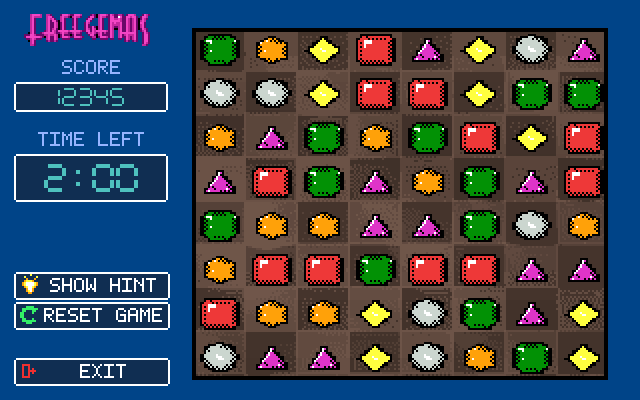
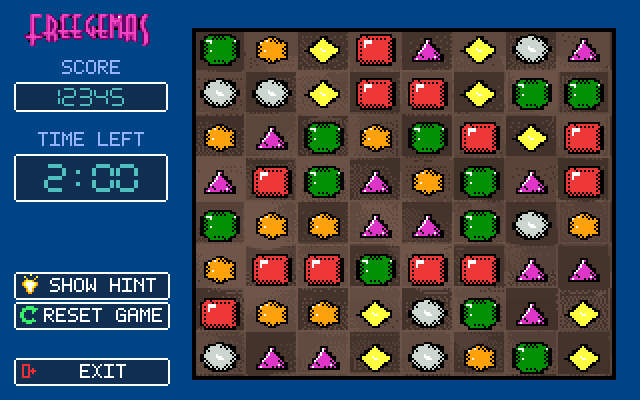
iigs: fix 8-column board symmetry and add documentation

Changed region(s): [[0.9375, 0.06, 0.9688, 0.96]]

diff --git a/iigs/tools/committed_art.py b/iigs/tools/committed_art.py
@@ -382,18 +382,19 @@ def build_scene(ctx, time_panel):
     # Board: retain the source wood and cell shading. The cached scene is also
     # the exact restoration image used after gem moves, so textured cells need
     # no separate runtime redraw path.
-    errors = [[0.0, 0.0, 0.0] for _ in range(BOARD_W + 2)]
-    next_errors = [[0.0, 0.0, 0.0] for _ in range(BOARD_W + 2)]
+    BOARD_EXT_W = 212
+    errors = [[0.0, 0.0, 0.0] for _ in range(BOARD_EXT_W + 2)]
+    next_errors = [[0.0, 0.0, 0.0] for _ in range(BOARD_EXT_W + 2)]
     previous_bank = -1
     for y in range(BOARD_Y, BOARD_Y + BOARD_H):
         if scb[y] != previous_bank:
-            errors = [[0.0, 0.0, 0.0] for _ in range(BOARD_W + 2)]
-            next_errors = [[0.0, 0.0, 0.0] for _ in range(BOARD_W + 2)]
+            errors = [[0.0, 0.0, 0.0] for _ in range(BOARD_EXT_W + 2)]
+            next_errors = [[0.0, 0.0, 0.0] for _ in range(BOARD_EXT_W + 2)]
             previous_bank = scb[y]
         gy = y - BOARD_Y
-        for x in range(BOARD_X, BOARD_X + BOARD_W):
+        for x in range(BOARD_X, BOARD_X + BOARD_EXT_W):
             gx = x - BOARD_X
-            if gx < 2 or gx >= BOARD_W - 2 or gy < 2 or gy >= BOARD_H - 2:
+            if gx < 2 or gx >= BOARD_EXT_W - 2 or gy < 2 or gy >= BOARD_H - 2:
                 grid[y][x] = 0
             else:
                 if ZONE_KIND[y] == "logo":
@@ -415,7 +416,7 @@ def build_scene(ctx, time_panel):
                         next_errors[pos - 1][k] += error[k] * 3 / 16
                         next_errors[pos][k] += error[k] * 5 / 16
                         next_errors[pos + 1][k] += error[k] / 16
-        errors, next_errors = next_errors, [[0.0, 0.0, 0.0] for _ in range(BOARD_W + 2)]
+        errors, next_errors = next_errors, [[0.0, 0.0, 0.0] for _ in range(BOARD_EXT_W + 2)]
 
     # Left HUD column.
     draw_text_grid(grid, "Score", PANEL_X + (PANEL_W - text_w("Score")) // 2, 30, LABEL_SLOT)

diff --git a/iigs/tools/hud_art.py b/iigs/tools/hud_art.py
@@ -51,8 +51,8 @@ def polish_sidebar(packed, palettes, glyphs, time_panel):
     grid=[[(packed[y*160+x//2]>>(4 if x%2==0 else 0))&15 for x in range(320)] for y in range(200)]
     for y,row in enumerate(grid):
         bg = 11 if y < 28 else 12
-        row[:96]=[bg]*96; row[304:]=[bg]*16
-        if y<14 or y>=190: row[96:304]=[11 if y < 28 else 12]*208
+        row[:96]=[bg]*96; row[308:]=[bg]*12
+        if y<14 or y>=190: row[96:308]=[11 if y < 28 else 12]*212
     def rect(x0,y0,x1,y1,colour):
         for y in range(y0,y1): grid[y][x0:x1]=[colour]*(x1-x0)
     def text(value,x,y,colour=1,scale_y=1):
@@ -103,5 +103,5 @@ def polish_sidebar(packed, palettes, glyphs, time_panel):
         width=len(caption)*6-1
         text(caption,21+(62-width)//2,y+3)
     data=bytes((grid[y][x]<<4)|grid[y][x+1] for y in range(200) for x in range(0,320,2))
-    assert all(data[y*160+48:y*160+152]==packed[y*160+48:y*160+152] for y in range(14,190))
+    assert all(data[y*160+48:y*160+154]==packed[y*160+48:y*160+154] for y in range(14,190))
     return data

diff --git a/iigs/README-tw.md b/iigs/README-tw.md
@@ -1,0 +1,88 @@
+# Freegemas for Apple IIGS
+
+[English](README.md) | 繁體中文
+
+這是 Freegemas 的 Apple IIGS 移植版。遊戲以 65816 原生組語撰寫（使用 Merlin32），運行於 GS/OS 環境（S16 可執行檔）。畫面使用 320×200 Super Hi-Res（4bpp）與逐行 16 色調色盤。棋盤採用完整 8 列對稱邊界、對齊原作的木質紋理，以及使用者核定之精緻 2D 方塊像素寶石。音訊透過 Ensoniq 5503 DOC 晶片提供雙緩衝背景音樂與原生 PCM 音效。
+
+可開機測試的 2MG 磁碟映像建置於 [`merlin32/build/freegemas.2mg`](merlin32/build/freegemas.2mg)。
+
+## 建置與需求
+
+### 前置環境
+- [Merlin32](http://www.brutaldeluxe.fr/products/crossdevtools/merlin/) 1.2 beta 2 或以上版本（`C:\dev\Merlin32.exe`）
+- Python 3 與 [Pillow](https://python-pillow.org/)
+- `ffmpeg`（用於將原版 `media/*.ogg` 轉換為 DOC PCM 格式）
+- Cadius 1.4.5（隨附於 `iigs/cadius.exe`）
+- GS/OS 基礎映像範本 `iigs/build/gsos-template.2mg`
+
+### 建置指令
+
+於 repo 根目錄或 `iigs/merlin32` 執行：
+
+```powershell
+# 1. 產生 SHR 場景、調色盤及編譯式寶石 Blitter
+python iigs/tools/build_iigs_assets.py
+
+# 2. 產生 Ensoniq DOC PCM 音效與 BGM 音軌
+python iigs/tools/build_iigs_sounds.py iigs/merlin32/build
+
+# 3. 組譯程式碼並打包為 2MG 開機磁碟
+cd iigs/merlin32
+C:\dev\Merlin32.exe macros src/main.s
+make disk
+```
+
+`make disk` 會編譯 `FREEGEM.S16`、整理各類遊戲資產、更新 `/SYSTEM/SetStart.data`（使磁碟開機直接啟動 `FREEGEM.S16`），並透過 Cadius 產出可開機的 `build/freegemas.2mg` 磁碟。
+
+## 硬體需求
+
+- Apple IIGS 實機（ROM 01 或 ROM 03）或相容模擬器（GSSquared、GSplus、KEGS、Sweet16）。
+- **記憶體：建議至少 2 MB，4 MB 或以上更佳。**
+  - 完整 1,413,400 bytes（約 1.35 MiB）的背景音樂音軌於開局時常駐鎖定在 RAM Handle 中，以達成完全無卡頓的流暢播放。
+  - 若系統記憶體不足以容納全曲，引擎會自動退回透過 GS/OS 於背景即時自磁碟串流的機制。
+
+## 操作方式
+
+- **標題選單**：W/S 或上下方向鍵移動游標；Space 或 Enter 進入模式；完全支援滑鼠懸停與點擊。
+- **How to Play**：按任意鍵或點擊滑鼠返回標題。
+- **Options**：上下方向鍵或滑鼠移動；Space/Enter 或點擊切換 Music 與 Sound；Esc 返回標題。
+- **遊戲畫面**：
+  - **鍵盤**：W/A/S/D 或方向鍵移動選取框；Space 選取與交換寶石。
+  - **滑鼠**：點擊兩顆相鄰寶石，或按住寶石拖曳至相鄰格子進行交換。
+  - `H`：顯示合法移動提示（該次得分不計分）。
+  - `R`：重設當前局。
+  - `Esc`：返回標題畫面。
+  - 左側側欄按鈕（`Show Hint`、`Reset Game`、`Exit`）亦可直接使用滑鼠點擊。
+
+## 遊戲機制與畫面規格
+
+- **遊戲模式**：
+  - **Time Trial（計時賽）**：120 秒倒數。時間歸零時，若棋盤已有正在進行的連鎖消除，會等待連鎖完整結束後再進入 Game Over。
+  - **Endless（無盡模式）**：無時間限制，直到棋盤無合法移動時遊戲結束。
+- **棋盤佈局**：
+  - 完整 8 列 $\times$ 8 行（每格尺寸為 $26\text{ px} \times 22\text{ px}$）。
+  - 棋盤總寬度為 $212\text{ px}$（$x = 96 \sim 307$），四周具備對稱的 $2\text{ px}$ 黑色外框。
+  - 左右兩側外緣邊界（左側按鈕至棋盤 $x = 84 \sim 95$、右側棋盤至螢幕邊緣 $x = 308 \sim 319$）各為完美的 $12\text{ px}$ 深藍背景，達成水平完全置中對稱。
+- **視覺效果**：
+  - 維護手繪 24×20 2D 方塊像素寶石風格，無演算法破壞或模糊。
+  - 消除後的底圖重繪採用 Damage-Rectangle Blitter，直接從背景快取 RAM（`dTitleSave`）還原木紋。
+  - 標題、說明與設定畫面使用 12-bank 調色盤取樣搭配 4×4 Bayer 有序抖色光束背景。
+- **最高分紀錄**：
+  - Time Trial 與 Endless 的最高得分均持久化儲存於 `/FREEGEMAS/DATA/HISCORE.DAT` 中。
+
+## 音訊架構
+
+- **音效（SFX）**：原版音效（`select.ogg`、`fall.ogg`、`match1..3.ogg`）轉為 Ensoniq DOC 8-bit 無號 PCM。透過專屬 DOC 振盪器配對播放（0/1 負責 Select、2/3 負責 Fall、4/5 負責 Match）。
+- **背景音樂（BGM）**：完整約 126 秒的立體聲原曲轉為 DOC 單聲道格式（11,186 Hz）。透過 6/7 振盪器配對，配合 DOC End Interrupt 與雙 4 KiB Wave Table 進行 Ping-pong 切換播放。
+
+## 專案架構
+
+- `iigs/merlin32/src/main.s`：核心 65816 遊戲引擎、Blitter、輸入、HUD、音訊與 GS/OS 介面。
+- `iigs/merlin32/macros/`：Merlin32 組譯巨集。
+- `iigs/merlin32/Makefile`：組譯與磁碟建置 Makefile。
+- `iigs/tools/build_iigs_assets.py`：SHR 資產轉換工具（場景、調色盤、Blitter）。
+- `iigs/tools/committed_art.py`：棋盤佈局、調色盤分配與場景生成器。
+- `iigs/tools/hud_art.py`：左側 HUD 儀表板與數字遮罩生成器。
+- `iigs/tools/build_iigs_sounds.py`：DOC PCM 與 BGM 音軌轉換工具。
+- `iigs/tools/pack_disk.py`：ProDOS/GS/OS 2MG 磁碟打包器。
+- `iigs/AGENTS.md`：核心開發規格、記憶體約定與接手維護指南。

diff --git a/iigs/README.md b/iigs/README.md
@@ -1,0 +1,88 @@
+# Freegemas for Apple IIGS
+
+English | [繁體中文](README-tw.md)
+
+An Apple IIGS port of Freegemas, written in 65816 assembly using Merlin32 and targeting GS/OS (S16 executable). Graphics utilize 320×200 Super Hi-Res (4bpp) with per-scanline 16-color palettes. The gameplay board features 8 columns with symmetric 2px borders, source-aligned wood texture, and authentic 2D square pixel-art gems. Audio uses the Ensoniq 5503 DOC chip for streamed music and native sound effects.
+
+The bootable 2MG disk image is built at [`merlin32/build/freegemas.2mg`](merlin32/build/freegemas.2mg).
+
+## Requirements and build
+
+### Prerequisites
+- [Merlin32](http://www.brutaldeluxe.fr/products/crossdevtools/merlin/) 1.2 beta 2 or later (`C:\dev\Merlin32.exe`)
+- Python 3 with [Pillow](https://python-pillow.org/)
+- `ffmpeg` (for DOC audio conversion from original `media/*.ogg`)
+- Cadius 1.4.5 (bundled as `cadius.exe`)
+- GS/OS base template disk `iigs/build/gsos-template.2mg`
+
+### Build instructions
+
+From the repository root or `iigs/merlin32`:
+
+```powershell
+# 1. Generate SHR scenes, palettes, and compiled gem blitters
+python iigs/tools/build_iigs_assets.py
+
+# 2. Generate Ensoniq DOC PCM waves and streamed music track
+python iigs/tools/build_iigs_sounds.py iigs/merlin32/build
+
+# 3. Assemble and pack the 2MG bootable disk
+cd iigs/merlin32
+C:\dev\Merlin32.exe macros src/main.s
+make disk
+```
+
+`make disk` compiles `FREEGEM.S16`, stages assets, updates `/SYSTEM/SetStart.data` to auto-boot `FREEGEM.S16`, and creates the bootable `build/freegemas.2mg` image via Cadius.
+
+## Hardware requirements
+
+- Apple IIGS (ROM 01 or ROM 03) or a compatible emulator (GSSquared, GSplus, KEGS, Sweet16).
+- **RAM: 2 MB total is the recommended minimum; 4 MB or more is preferred.**
+  - The 1,413,400-byte BGM soundtrack (~1.35 MiB) is cached into a locked RAM handle at startup for stutter-free playback.
+  - If memory is insufficient to cache the full song, the engine automatically falls back to background streaming from disk via GS/OS.
+
+## Controls
+
+- **Title Screen**: W/S or Up/Down arrow keys move selection; Space or Enter opens an item. Mouse hover and clicking are fully supported.
+- **How to Play**: Press any key or click to return to the title screen.
+- **Options**: Up/Down arrow keys or mouse select options; Space/Enter or click toggles Music and Sound; Esc returns to title.
+- **Game**:
+  - **Keyboard**: W/A/S/D or arrow keys move the cell selector; Space selects and swaps gems.
+  - **Mouse**: Click two adjacent gems, or hold and drag a gem to an adjacent cell to attempt a swap.
+  - `H`: Show Hint (highlights a legal move; next scoring match awards no points).
+  - `R`: Restart the current mode.
+  - `Esc`: Return to the title screen.
+  - Left HUD buttons (`Show Hint`, `Reset Game`, `Exit`) can also be clicked directly.
+
+## Gameplay and graphics
+
+- **Game Modes**:
+  - **Time Trial**: Race against a 120-second timer. Cascades already underway complete when time runs out before Game Over triggers.
+  - **Endless**: Play without a timer. The game ends when no legal moves remain on the board.
+- **Board Layout**:
+  - Full 8 columns $\times$ 8 rows ($26\text{ px} \times 22\text{ px}$ per cell).
+  - The board width is $212\text{ px}$ ($x = 96 \sim 307$) with 2px symmetric black borders.
+  - Outer screen margins on both the left ($x = 84 \sim 95$) and right ($x = 308 \sim 319$) are exactly $12\text{ px}$ of deep blue background, ensuring perfect horizontal centering.
+- **Visuals**:
+  - Hand-crafted 24×20 2D square gem pixel art preserved without algorithmic distortion.
+  - Restorations after gem moves use damage-rectangle blitters restoring directly from cached background RAM (`dTitleSave`).
+  - Title, How to Play, and Options screens use a 12-bank palette sampling with 4×4 Bayer ordered dithering over blue light rays.
+- **High Scores**:
+  - High scores for Time Trial and Endless modes are persistently saved to `HISCORE.DAT` in the `/FREEGEMAS/DATA` folder.
+
+## Audio architecture
+
+- **Sound Effects**: Original sound clips (`select.ogg`, `fall.ogg`, `match1..3.ogg`) converted to Ensoniq DOC 8-bit unsigned PCM. Played through dedicated DOC oscillator pairs (0/1 for Select, 2/3 for Fall, 4/5 for Match).
+- **Background Music**: Complete ~126-second stereo-to-mono soundtrack converted to DOC format (11,186 Hz). Played via oscillator pair 6/7 using double-buffered 4 KiB wave tables synchronized to DOC end interrupts.
+
+## Project layout
+
+- `iigs/merlin32/src/main.s`: Main 65816 game engine, blitters, input, HUD, audio, and GS/OS interface.
+- `iigs/merlin32/macros/`: Merlin32 assembler macro definitions.
+- `iigs/merlin32/Makefile`: Assembly and disk packaging targets.
+- `iigs/tools/build_iigs_assets.py`: SHR asset conversion script (scenes, palettes, blitters).
+- `iigs/tools/committed_art.py`: Board layout, palette assignment, and scene generator.
+- `iigs/tools/hud_art.py`: Left sidebar HUD and digit mask generators.
+- `iigs/tools/build_iigs_sounds.py`: DOC PCM and BGM track converter.
+- `iigs/tools/pack_disk.py`: ProDOS/GS/OS 2MG disk image packager.
+- `iigs/AGENTS.md`: Detailed architecture, memory contract, and technical reference.

diff --git a/README.md b/README.md
@@ -84,9 +84,21 @@ The music in the game is [Easy Lemon by Kevin MacLeod](https://incompetech.com/m
 Licensed under [Creative Commons: By Attribution 3.0](https://creativecommons.org/licenses/by/3.0/)
 
 
+## Apple //e VERA port
+
+An Apple //e VERA port is maintained in [`vera/`](vera/). Read [`vera/README.md`](vera/README.md) and [`vera/AGENTS.md`](vera/AGENTS.md) for build instructions and technical details.
+
+- **Platform & Engine**: Compiled to 65C02 native code using the [LLVM-MOS SDK](https://github.com/llvm-mos/llvm-mos-sdk). Uses an 800 KB ProDOS HDV disk image ([`vera/freegemas.hdv`](vera/freegemas.hdv)).
+- **Graphics**: 320×240 8bpp bitmap mode with persistent VERA hardware gem sprites and top-edge masking.
+- **Audio & Features**: Background music and sound effects routed through VERA PSG; segmented loader for title, game, instructions, and options; full keyboard and mouse control support.
+- **Requirements**: 128 KB Apple //e with a VERA card in Slot 2 or Slot 4, tested in VERA-enabled AppleWin and on real hardware (VeraSD).
+
+
 ## Apple IIGS port
 
-An Apple IIGS port is maintained in [`iigs/`](iigs/). Read [`iigs/AGENTS.md`](iigs/AGENTS.md) for the current implementation notes and build instructions. The 320x200 Super Hi-Res game uses the same flat gem artwork in gameplay and the How to Play diagrams. The gameplay board uses source-aligned wood shading with its color and contrast tuned to the VERA port; the flat gem artwork remains unchanged. Title, How to Play, and Options share the VERA-inspired blue ray backdrop, with screen-specific 12-bank palettes and an even 4×4 Bayer dither pattern. The How to Play gems and crisp menu artwork retain their dedicated colors. The Options screen credits the IIGS port to anomixer and uses the larger VERA-aligned menu text.
+An Apple IIGS port is maintained in [`iigs/`](iigs/). Read [`iigs/AGENTS.md`](iigs/AGENTS.md) for the current implementation notes and build instructions. The 320x200 Super Hi-Res game uses the same flat gem artwork in gameplay and the How to Play diagrams. The gameplay board uses source-aligned wood shading with its color and contrast tuned to the VERA port; the flat gem artwork remains unchanged. The 8-column board is framed with symmetric 2px black borders and 12px outer margins (`x=96..307`). Title, How to Play, and Options share the VERA-inspired blue ray backdrop, with screen-specific 12-bank palettes and an even 4×4 Bayer dither pattern. The How to Play gems and crisp menu artwork retain their dedicated colors. The Options screen credits the IIGS port to anomixer and uses the larger VERA-aligned menu text.
+
+The bootable 2MG disk image is built at [`iigs/merlin32/build/freegemas.2mg`](iigs/merlin32/build/freegemas.2mg), including `README.TXT` V1.0.
 
 The IIGS Finder icon uses the game's square red gem. The build streams its DOC music through alternating 4 KiB wave tables. Table changes are synchronized to the DOC end interrupt, while PCM preparation stays in the foreground. Sound effects use separate DOC oscillator pairs. The current audio IRQ build was tested in GSplus: after a continuous capture, the user played a full round and reported no music skips, including during gameplay. Exit with the callback installed, other emulators, and real IIGS hardware still need verification. See [`iigs/AGENTS.md`](iigs/AGENTS.md) for implementation details and the latest validation status.
 

diff --git a/iigs/AGENTS.md b/iigs/AGENTS.md
@@ -9,7 +9,7 @@
 - 遊戲資料、音效、音樂與 `HISCORE.DAT` 放在 `/DATA`；磁碟根目錄保留 `FREEGEM.S16`、`README.TXT` 和系統檔案。GS/OS 透過檔案呼叫讀取資產。
 - 現有功能含 Title、How to Play、Options、Time Trial、Endless、match/cascade、hint、reset、Game Over、滑鼠點選與相鄰寶石拖曳交換。鍵盤支援 WASD 與方向鍵。
 - 寶石採使用者核定的 2D 方塊像素風格。How to Play 使用與遊戲相同的 gem raster/palette。側欄 Show Hint 是發光燈泡，Reset Game 是圓形箭頭；其他場景可見的微小角落像素屬已知外觀，不要特別增加清理程式。
-- 棋盤木紋的來源位置與色調依 VERA 版對齊；使用分區 SHR palette 和離線色彩誤差擴散，動態消除仍從快取背景還原像素。
+- 棋盤木紋寬度為 212 px（$x=96\sim 307$），包含 8 列完整的 26 px 格子與左右各 2 px 黑框，左右兩側藍色背景邊界均勻對稱（各留 12 px）；木紋來源位置與色調依 VERA 版對齊，使用分區 SHR palette 和離線色彩誤差擴散，動態消除仍由 `dTitleSave` 從快取背景還原像素（$x=96\sim 303$）。
 - 遊戲畫面左上 Logo 帶的底色與下方背景同用深藍色，避免頂端形成較亮色帶。
 - Title、How to Play、Options 共用 VERA 風格的藍色光束背景；各自使用 12-bank SCB、跨 scanline 調色盤取樣、RGB444 色彩擬合及 4×4 Bayer 有序抖色，讓背景網點均勻，不要改回誤差擴散。Logo 和 How to Play 寶石區保護前景顏色；白色文字與琥珀選取色保留專用 palette slot。修改後檢視 `generated/preview_title.png`、`preview_howto.png`、`preview_options.png`。
 
